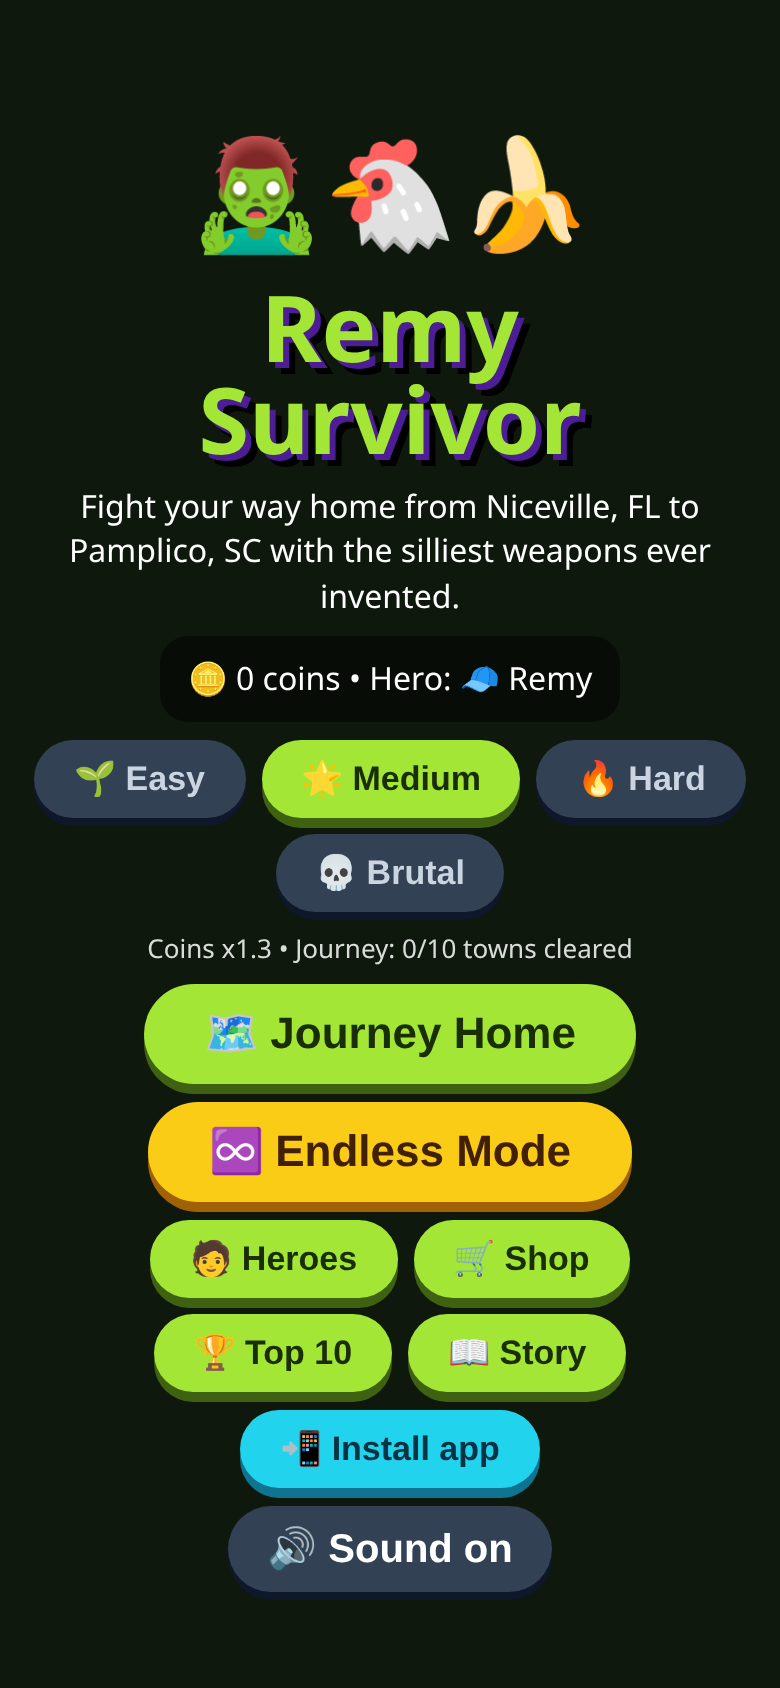
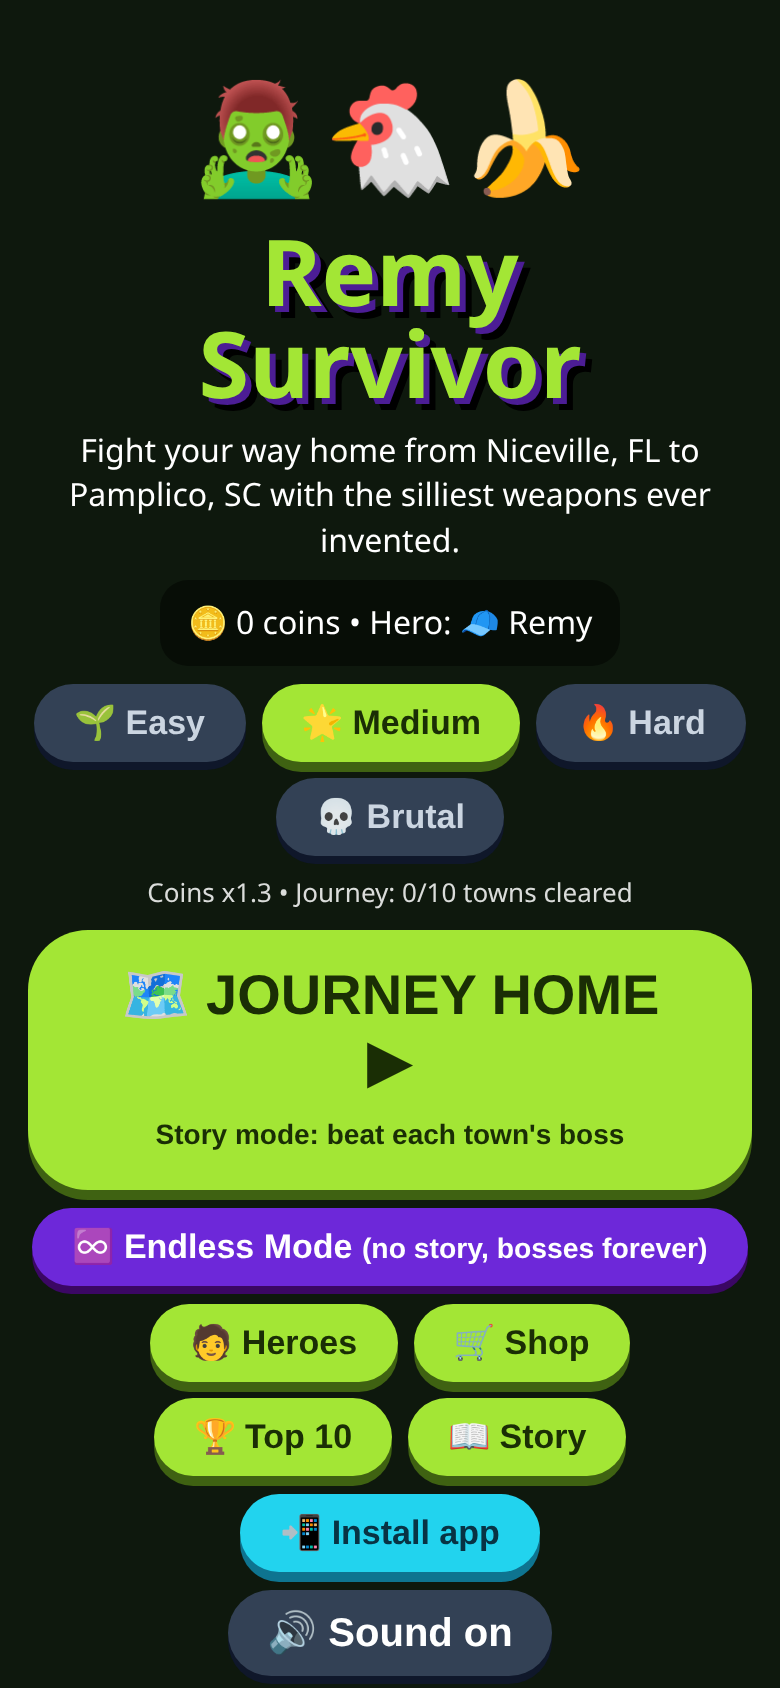
Stage boss always clears stage (flagged boss, fallback check, invulnerable after win); clearer Journey vs Endless UI and HUD; SW v9

diff --git a/game.js b/game.js
@@ -147,13 +147,13 @@ function buildSprites(){
 // ===== Spawning =====
 function spawnZ(type,x,y,boss){const z=obtain("z"),T=ZT[type];const sc=G.mode==="journey"?G.diff:1,tm=1+G.t/100;
  const D=DF();Object.assign(z,{type,x,y,r:T.r,hp:T.hp*tm*sc*D.hp*(boss?1+G.bossN*.6:1),spd:T.spd*rnd(.9,1.1)*(type==="boss"?1:Math.min(1.5,1+G.t/900))*D.spd,dmg:T.dmg*(1+G.t/400)*D.dmg,xp:T.xp,flash:0,kx:0,ky:0,slow:0,wob:Math.random()*6,dash:0,dashCd:3,name:boss||""});
- z.max=z.hp;z.hit=z.hit||{};for(const k in z.hit)z.hit[k]=0;ent.z.push(z);return z}
+ z.stageBoss=false;if(boss&&G.mode==="journey"&&!G.stageBossSpawned){z.stageBoss=true;G.stageBossSpawned=true;G.stageBossName=boss}z.max=z.hp;z.hit=z.hit||{};for(const k in z.hit)z.hit[k]=0;ent.z.push(z);return z}
 function edgePt(m=30){const p=G.p,hw=W/2+m,hh=H/2+m,per=2*(hw+hh),r=Math.random()*per;let x,y;if(r<2*hw){x=r-hw;y=Math.random()<.5?-hh:hh}else{y=r-2*hw-hh;x=Math.random()<.5?-hw:hw}return[p.x+x,p.y+y]}
 function waves(){const t=G.t,p=G.p;G.waveI=G.waveI||0;
  if(G.waveI===0&&t>1.2){G.waveI=1;const n=30;for(let i=0;i<n;i++){const a=i/n*Math.PI*2;spawnZ(i%5===0?"runner":"shamb",p.x+Math.cos(a)*(W/2+25),p.y+Math.sin(a)*(H/2+25))}G.banner="🧟 THEY'RE EVERYWHERE!";G.bannerT=2;sfx("boss");G.shake=6}
  if(G.waveI===1&&t>14){G.waveI=2;const[hx,hy]=edgePt();for(let i=0;i<14;i++)spawnZ("runner",hx+rnd(-40,40),hy+rnd(-40,40));G.banner="🏃 Runner pack!";G.bannerT=1.5}
  if(G.waveI===2&&t>32){G.waveI=3;const n=36;for(let i=0;i<n;i++){const a=i/n*Math.PI*2;spawnZ(i%6===0?"dog":"shamb",p.x+Math.cos(a)*(W/2+25),p.y+Math.sin(a)*(H/2+25))}G.banner="🧟 Surrounded!";G.bannerT=1.5}}
-function spawnTick(dt){const t=G.t;waves();if(G.bossAlive&&ent.z.length>120)return;
+function spawnTick(dt){if(G.won)return;const t=G.t;waves();if(G.bossAlive&&ent.z.length>120)return;
  const rate=(2.0+t/45)*(G.mode==="journey"?(G.stage<2?.62:.75)+G.stage*.09:1.1);G.spawnAcc+=dt*Math.min(rate*DF().sp,36);
  while(G.spawnAcc>=1&&ent.z.length<Math.min(330,90+t*.6)){G.spawnAcc--;
   const pool=Object.keys(ZT).filter(k=>ZT[k].t<=t+(G.mode==="journey"?G.stage*11:0));
@@ -161,7 +161,7 @@ function spawnTick(dt){const t=G.t;waves();if(G.bossAlive&&ent.z.length>120)retu
   if(Math.random()<.004*Math.min(1,t/60)){const[hx,hy]=edgePt();for(let i=0;i<10;i++)spawnZ(t>80?"dog":"runner",hx+rnd(-30,30),hy+rnd(-30,30))} // horde!
   const[ex,ey]=edgePt();spawnZ(type,ex,ey)}
  if(t>=G.nextBoss&&!G.bossAlive){const nm=G.mode==="journey"?STAGES[G.stage].boss:pick(["Big Gulp Gary","Principal Brains","Mega Mall Santa","Sir Moans-a-Lot","Grill Master Ghoul"]);
-  const a=Math.random()*7;G.bossAlive=spawnZ("boss",G.p.x+Math.cos(a)*380,G.p.y+Math.sin(a)*380,nm);G.bossN++;G.banner="⚠ BOSS: "+nm;G.bannerT=3;sfx("boss");G.shake=12;
+  const a=Math.random()*7;G.bossAlive=spawnZ("boss",G.p.x+Math.cos(a)*380,G.p.y+Math.sin(a)*380,nm);G.bossN++;G.banner=(G.mode==="journey"?"⚠ STAGE BOSS: ":"⚠ BOSS: ")+nm;G.bannerT=3;sfx("boss");G.shake=12;
   G.nextBoss=G.mode==="journey"?1e9:G.t+150}}
 
 // ===== Damage =====
@@ -178,12 +178,14 @@ function killZ(z){G.kills++;const col=z.type==="clown"?"#f472b6":z.type==="bloat
  if(z.type==="bloat"){sfx("splat");parts(z.x,z.y,18,"#a78bfa",220);const zn=zone(z.x,z.y,55,1.2,0,"goo");G.shake=Math.max(G.shake,4);
   if(Math.hypot(G.p.x-z.x,G.p.y-z.y)<60)hitPlayer(8);setTimeout(()=>{if(G)aoe(z.x,z.y,60,25,"burst",60)},0)}
  if(z.type==="boss"){G.bossAlive=null;G.shake=20;sfx("boom");for(let i=0;i<12;i++)item(z.x+rnd(-50,50),z.y+rnd(-50,50),"coin");item(z.x,z.y,"chest");ent.item[ent.item.length-1].pull=true;ent.gem.forEach(g=>g.pull=true);txt(z.x,z.y-50,"BOSS DEFEATED!","#facc15");
-  if(G.mode==="journey"){G.won=true;G.wonT=2.2;G.banner="🎉 "+STAGES[G.stage].n+" CLEARED!";G.bannerT=3;sfx("win")}}
+  if(z.stageBoss)stageClear()}
  z.hp=0}
+function stageClear(){if(!G||G.mode!=="journey"||G.won)return;G.won=true;G.wonT=2.2;G.p.inv=1e9;G.p.hp=Math.max(G.p.hp,1);G.banner="🎉 "+STAGES[G.stage].n+" CLEARED!";G.bannerT=3;sfx("win");
+ for(const z of ent.z){if(z.hp>0&&!z.stageBoss){parts(z.x,z.y,4,"#84cc16");z.hp=0}}}
 function dropGem(x,y,v){if(ent.gem.length>400){const g=ent.gem[Math.floor(Math.random()*ent.gem.length)];g.v+=v;return}const g=obtain("gem");Object.assign(g,{x,y,v,pull:false});ent.gem.push(g)}
 function item(x,y,k){const o=obtain("item");Object.assign(o,{x,y,k,l:30,pull:false});ent.item.push(o)}
 function zone(x,y,r,l,dmg,k,slow=0){const o=obtain("zone");Object.assign(o,{x,y,r,l,ml:l,dmg,k,slow});ent.zone.push(o);return o}
-function hitPlayer(d){const p=G.p;if(p.inv>0)return;d=Math.max(1,d-p.armor);p.hp-=d;p.inv=.5;for(const z of ent.z){if(z.hp>0&&z.type!=="boss"){const dx=z.x-p.x,dy=z.y-p.y,dd=dx*dx+dy*dy;if(dd<70*70){const l=Math.sqrt(dd)||1;z.kx+=dx/l*90;z.ky+=dy/l*90}}}G.shake=Math.max(G.shake,6);sfx("hurt");txt(p.x,p.y-20,"-"+Math.round(d),"#f87171");
+function hitPlayer(d){const p=G.p;if(p.inv>0||G.won)return;d=Math.max(1,d-p.armor);p.hp-=d;p.inv=.5;for(const z of ent.z){if(z.hp>0&&z.type!=="boss"){const dx=z.x-p.x,dy=z.y-p.y,dd=dx*dx+dy*dy;if(dd<70*70){const l=Math.sqrt(dd)||1;z.kx+=dx/l*90;z.ky+=dy/l*90}}}G.shake=Math.max(G.shake,6);sfx("hurt");txt(p.x,p.y-20,"-"+Math.round(d),"#f87171");
  if(p.hp<=0){if(G.revive){G.revive=false;p.hp=p.maxHp*.5;p.inv=2;G.banner="🧃 Juice box revive!";G.bannerT=2;aoe(p.x,p.y,250,999,"rev",200)}else endRun(false)}}
 function nearestN(x,y,n,maxD=900){const out=[];for(const z of ent.z){if(z.hp<=0)continue;const d=(z.x-x)**2+(z.y-y)**2;if(d>maxD*maxD)continue;out.push([d,z])}out.sort((a,b)=>a[0]-b[0]);return out.slice(0,n).map(o=>o[1])}
 function nearest(x,y,maxD=1e9){let b=null,bd=maxD*maxD;for(const z of ent.z){if(z.hp<=0)continue;const d=(z.x-x)**2+(z.y-y)**2;if(d<bd){bd=d;b=z}}return b}
@@ -284,6 +286,7 @@ function step(dt){const p=G.p,S=stat();G.t+=dt;
  for(let i=ent.part.length-1;i>=0;i--){const o=ent.part[i];o.l-=dt;o.x+=o.vx*dt;o.y+=o.vy*dt;o.vx*=.9;o.vy*=.9;if(o.l<=0)release("part",ent.part,i)}
  for(let i=ent.txt.length-1;i>=0;i--){const o=ent.txt[i];o.l-=dt;o.y-=40*dt;if(o.l<=0)release("txt",ent.txt,i)}
  G.shake*=.88;G.bannerT-=dt;
+ if(G.mode==="journey"&&G.stageBossSpawned&&!G.won&&!ent.z.some(z=>z.stageBoss&&z.hp>0))stageClear();
  if(G.won&&state==="play"){G.wonT-=dt;if(G.wonT<=0&&!ent.item.some(o=>o.k==="chest"))endRun(true)}}
 function loop(now){let dt=Math.max(0,Math.min(.05,(now-last)/1000));last=now;fps=fps*.95+(1/Math.max(dt,.001))*.05;
  if(state==="play"&&G){const n=window.__speed||1;for(let i=0;i<n;i++)step(dt)}if(G&&(state!=="title"))draw();requestAnimationFrame(loop)}
@@ -326,8 +329,10 @@ function hud(){const p=G.p,top=0;cx.fillStyle="#0009";cx.fillRect(0,top,W,28);cx
  cx.fillText("Lv "+G.lvl,8,top+11);cx.textAlign="center";cx.fillText("⏱ "+mm+":"+ss,W/2,top+11);cx.textAlign="right";cx.fillText("💀 "+G.kills+"  🪙 "+G.coins,W-8,top+11);
  cx.fillStyle="#0009";cx.fillRect(8,36,150,14);cx.fillStyle=p.hp/p.maxHp<.3?"#ef4444":"#4ade80";cx.fillRect(10,38,146*Math.max(0,p.hp/p.maxHp),10);cx.font="bold 11px system-ui";cx.textAlign="left";cx.fillStyle="#fff";cx.fillText("❤ "+Math.ceil(Math.max(0,p.hp))+"/"+p.maxHp,14,43);
  let x=8;cx.font="16px serif";for(const k of G.order){cx.fillText(G.w[k].evo?W8[k].ei:W8[k].i,x,64);x+=22}x=8;cx.font="13px serif";for(const k in G.ps){cx.fillText(PS[k].i,x,84);x+=18}
- if(G.mode==="journey"&&!G.bossAlive&&!G.won){const left=Math.max(0,G.nextBoss-G.t);cx.textAlign="center";cx.font="bold 13px system-ui";cx.fillStyle="#fde68a";cx.fillText("📍 "+STAGES[G.stage].n+" — boss in "+Math.floor(left/60)+":"+String(Math.floor(left%60)).padStart(2,"0"),W/2,H-22)}
- if(G.bossAlive){const b=G.bossAlive;cx.fillStyle="#000a";cx.fillRect(W*.15,96,W*.7,14);cx.fillStyle="#dc2626";cx.fillRect(W*.15+2,98,(W*.7-4)*Math.max(0,b.hp/b.max),10);cx.font="bold 11px system-ui";cx.textAlign="center";cx.fillStyle="#fff";cx.fillText("👑 "+b.name,W/2,103)}
+ if(G.mode==="journey"&&!G.bossAlive&&!G.won){const left=Math.max(0,G.nextBoss-G.t);cx.textAlign="center";cx.font="bold 13px system-ui";cx.fillStyle="#fde68a";cx.font="bold 15px system-ui";cx.lineWidth=4;cx.lineJoin="round";cx.strokeStyle="#000";const bl="📍 "+STAGES[G.stage].n+" — STAGE BOSS in "+Math.floor(left/60)+":"+String(Math.floor(left%60)).padStart(2,"0");cx.strokeText(bl,W/2,H-22);cx.fillText("📍 "+STAGES[G.stage].n+" — STAGE BOSS in "+Math.floor(left/60)+":"+String(Math.floor(left%60)).padStart(2,"0"),W/2,H-22)}
+ if(G.mode==="endless"){const left=Math.max(0,G.nextBoss-G.t);cx.textAlign="center";cx.font="900 15px system-ui";cx.lineWidth=4;cx.lineJoin="round";cx.strokeStyle="#000";const el="♾ ENDLESS MODE — "+(G.bossAlive?"boss fight!":"next boss in "+Math.floor(left/60)+":"+String(Math.floor(left%60)).padStart(2,"0"));cx.strokeText(el,W/2,H-22);cx.fillStyle="#c4b5fd";cx.fillText(el,W/2,H-22)}
+ if(G.mode==="journey"&&G.bossAlive&&G.bossAlive.stageBoss&&!G.won){cx.textAlign="center";cx.font="bold 14px system-ui";cx.lineWidth=4;cx.strokeStyle="#000";const tl="👑 Beat the STAGE BOSS to clear "+STAGES[G.stage].n.split(",")[0]+"!";cx.strokeText(tl,W/2,H-22);cx.fillStyle="#fca5a5";cx.fillText(tl,W/2,H-22)}
+ if(G.bossAlive){const b=G.bossAlive;cx.fillStyle="#000a";cx.fillRect(W*.15,96,W*.7,14);cx.fillStyle="#dc2626";cx.fillRect(W*.15+2,98,(W*.7-4)*Math.max(0,b.hp/b.max),10);cx.font="bold 11px system-ui";cx.textAlign="center";cx.fillStyle="#fff";cx.fillText((b.stageBoss?"👑 STAGE BOSS: ":"👑 BOSS: ")+b.name,W/2,103)}
  if(G.bannerT>0){cx.globalAlpha=Math.min(1,G.bannerT);cx.font="900 24px system-ui";cx.textAlign="center";cx.lineWidth=5;cx.lineJoin="round";cx.strokeStyle="#000";cx.strokeText(G.banner,W/2,H*.3);cx.fillStyle="#facc15";cx.fillText(G.banner,W/2,H*.3);cx.globalAlpha=1}}
 
 // ===== Screens =====
@@ -417,4 +422,4 @@ $("topB").onclick=()=>{$("boardTitle").textContent="🏆 Top 10 — "+DIFF[save.
 
 buildSprites();goTitle();requestAnimationFrame(loop);
 // test hooks
-window.__rs={setMute,get AC(){return AC},bagPick,nearest,prog,get G(){return G},get state(){return state},ent,save:()=>save,options,choose,spawnZ,openCards,endRun,stat,fps:()=>fps};
+window.__rs={stageClear,hurt,aoe,killZ,zone,setMute,get AC(){return AC},bagPick,nearest,prog,get G(){return G},get state(){return state},ent,save:()=>save,options,choose,spawnZ,openCards,endRun,stat,fps:()=>fps};

diff --git a/index.html b/index.html
@@ -43,7 +43,7 @@ table{border-collapse:collapse;font-size:14px;background:#0007;border-radius:12p
 <div class="screen center" id="title"><div style="font-size:54px">🧟♂🐔🍌</div><h1>Remy<br>Survivor</h1>
 <p>Fight your way home from Niceville, FL to Pamplico, SC with the silliest weapons ever invented.</p>
 <p id="coinS" class="card">🪙 0</p>
-<div id="diffRow" class="row"></div><p id="diffInfo" style="font-size:13px;opacity:.85"></p><button class="btn" id="journeyB">🗺 Journey Home</button><button class="btn alt" id="endlessB">♾ Endless Mode</button>
+<div id="diffRow" class="row"></div><p id="diffInfo" style="font-size:13px;opacity:.85"></p><button class="btn" id="journeyB" style="font-size:28px;padding:16px 34px;min-width:270px">🗺 JOURNEY HOME ▶<br><small style="font-size:14px;font-weight:700">Story mode: beat each town's boss</small></button><button class="btn sm" id="endlessB" style="background:#6d28d9;color:#fff;box-shadow:0 4px 0 #3b0764">♾ Endless Mode <small>(no story, bosses forever)</small></button>
 <div class="row"><button class="btn sm" id="heroB">🧑 Heroes</button><button class="btn sm" id="shopB">🛒 Shop</button><button class="btn sm" id="topB">🏆 Top 10</button><button class="btn sm" id="storyB">📖 Story</button></div>
 <button class="btn sm blue" id="installBtn">📲 Install app</button><div id="installHelp" class="card hidden">Tap Chrome's <b>⋮</b> menu → <b>Install app</b> / <b>Add to Home screen</b><br><small>(iPhone: Share ⬆ → Add to Home Screen)</small><br><button class="btn sm" id="helpOk">OK</button></div>
 <button class="btn sm" id="muteB" style="background:#334155;color:#fff;box-shadow:0 4px 0 #0f172a;font-size:20px">🔊 Sound on</button></div>
@@ -57,8 +57,8 @@ table{border-collapse:collapse;font-size:14px;background:#0007;border-radius:12p
 <div id="ini" class="hidden"><p><b>🎉 Top 10! Pick your initials</b></p><div id="iniCols"></div><br><button class="btn" id="iniSave">✔ Save</button></div>
 <div id="overBoard"></div><div id="overBtns" style="display:flex;flex-direction:column;gap:10px;align-items:center"><button class="btn" id="againB">🔁 Again</button><button class="btn sm alt" id="homeB">🏠 Home</button></div></div>
 <div class="screen hidden" id="board"><h2 id="boardTitle">🏆 Top 10</h2><div id="boardList"></div><button class="btn sm" id="boardBack">⬅ Back</button></div>
-<script src="dadnotes.js?v=8"></script><script src="verses.js?v=8"></script><script src="game.js?v=8"></script>
-<script>if('serviceWorker'in navigator&&location.protocol!=='file:')navigator.serviceWorker.register('sw.js?v=8');
+<script src="dadnotes.js?v=9"></script><script src="verses.js?v=9"></script><script src="game.js?v=9"></script>
+<script>if('serviceWorker'in navigator&&location.protocol!=='file:')navigator.serviceWorker.register('sw.js?v=9');
 let deferredPrompt=null;const ib=document.getElementById("installBtn"),hp=document.getElementById("installHelp");
 const standalone=()=>matchMedia("(display-mode: standalone)").matches||matchMedia("(display-mode: fullscreen)").matches||navigator.standalone;
 if(standalone())ib.classList.add("hidden");

diff --git a/sw.js b/sw.js
@@ -1,5 +1,5 @@
-const VER="8",CACHE="remysurv-v"+VER;
-const SHELL=["./","index.html","dadnotes.js?v=8","verses.js?v=8","game.js?v=8","manifest.webmanifest","icons/icon-192.png","icons/icon-512.png","icons/maskable-512.png"];
+const VER="9",CACHE="remysurv-v"+VER;
+const SHELL=["./","index.html","dadnotes.js?v=9","verses.js?v=9","game.js?v=9","manifest.webmanifest","icons/icon-192.png","icons/icon-512.png","icons/maskable-512.png"];
 self.addEventListener("install",e=>{e.waitUntil(caches.open(CACHE).then(c=>c.addAll(SHELL.map(u=>new Request(u,{cache:"reload"})))).then(()=>self.skipWaiting()))});
 self.addEventListener("activate",e=>{e.waitUntil(caches.keys().then(ks=>Promise.all(ks.filter(k=>k.startsWith("remysurv-")&&k!==CACHE).map(k=>caches.delete(k)))).then(()=>self.clients.claim()))});
 self.addEventListener("fetch",e=>{const r=e.request;if(r.method!=="GET"||new URL(r.url).origin!==location.origin)return;
